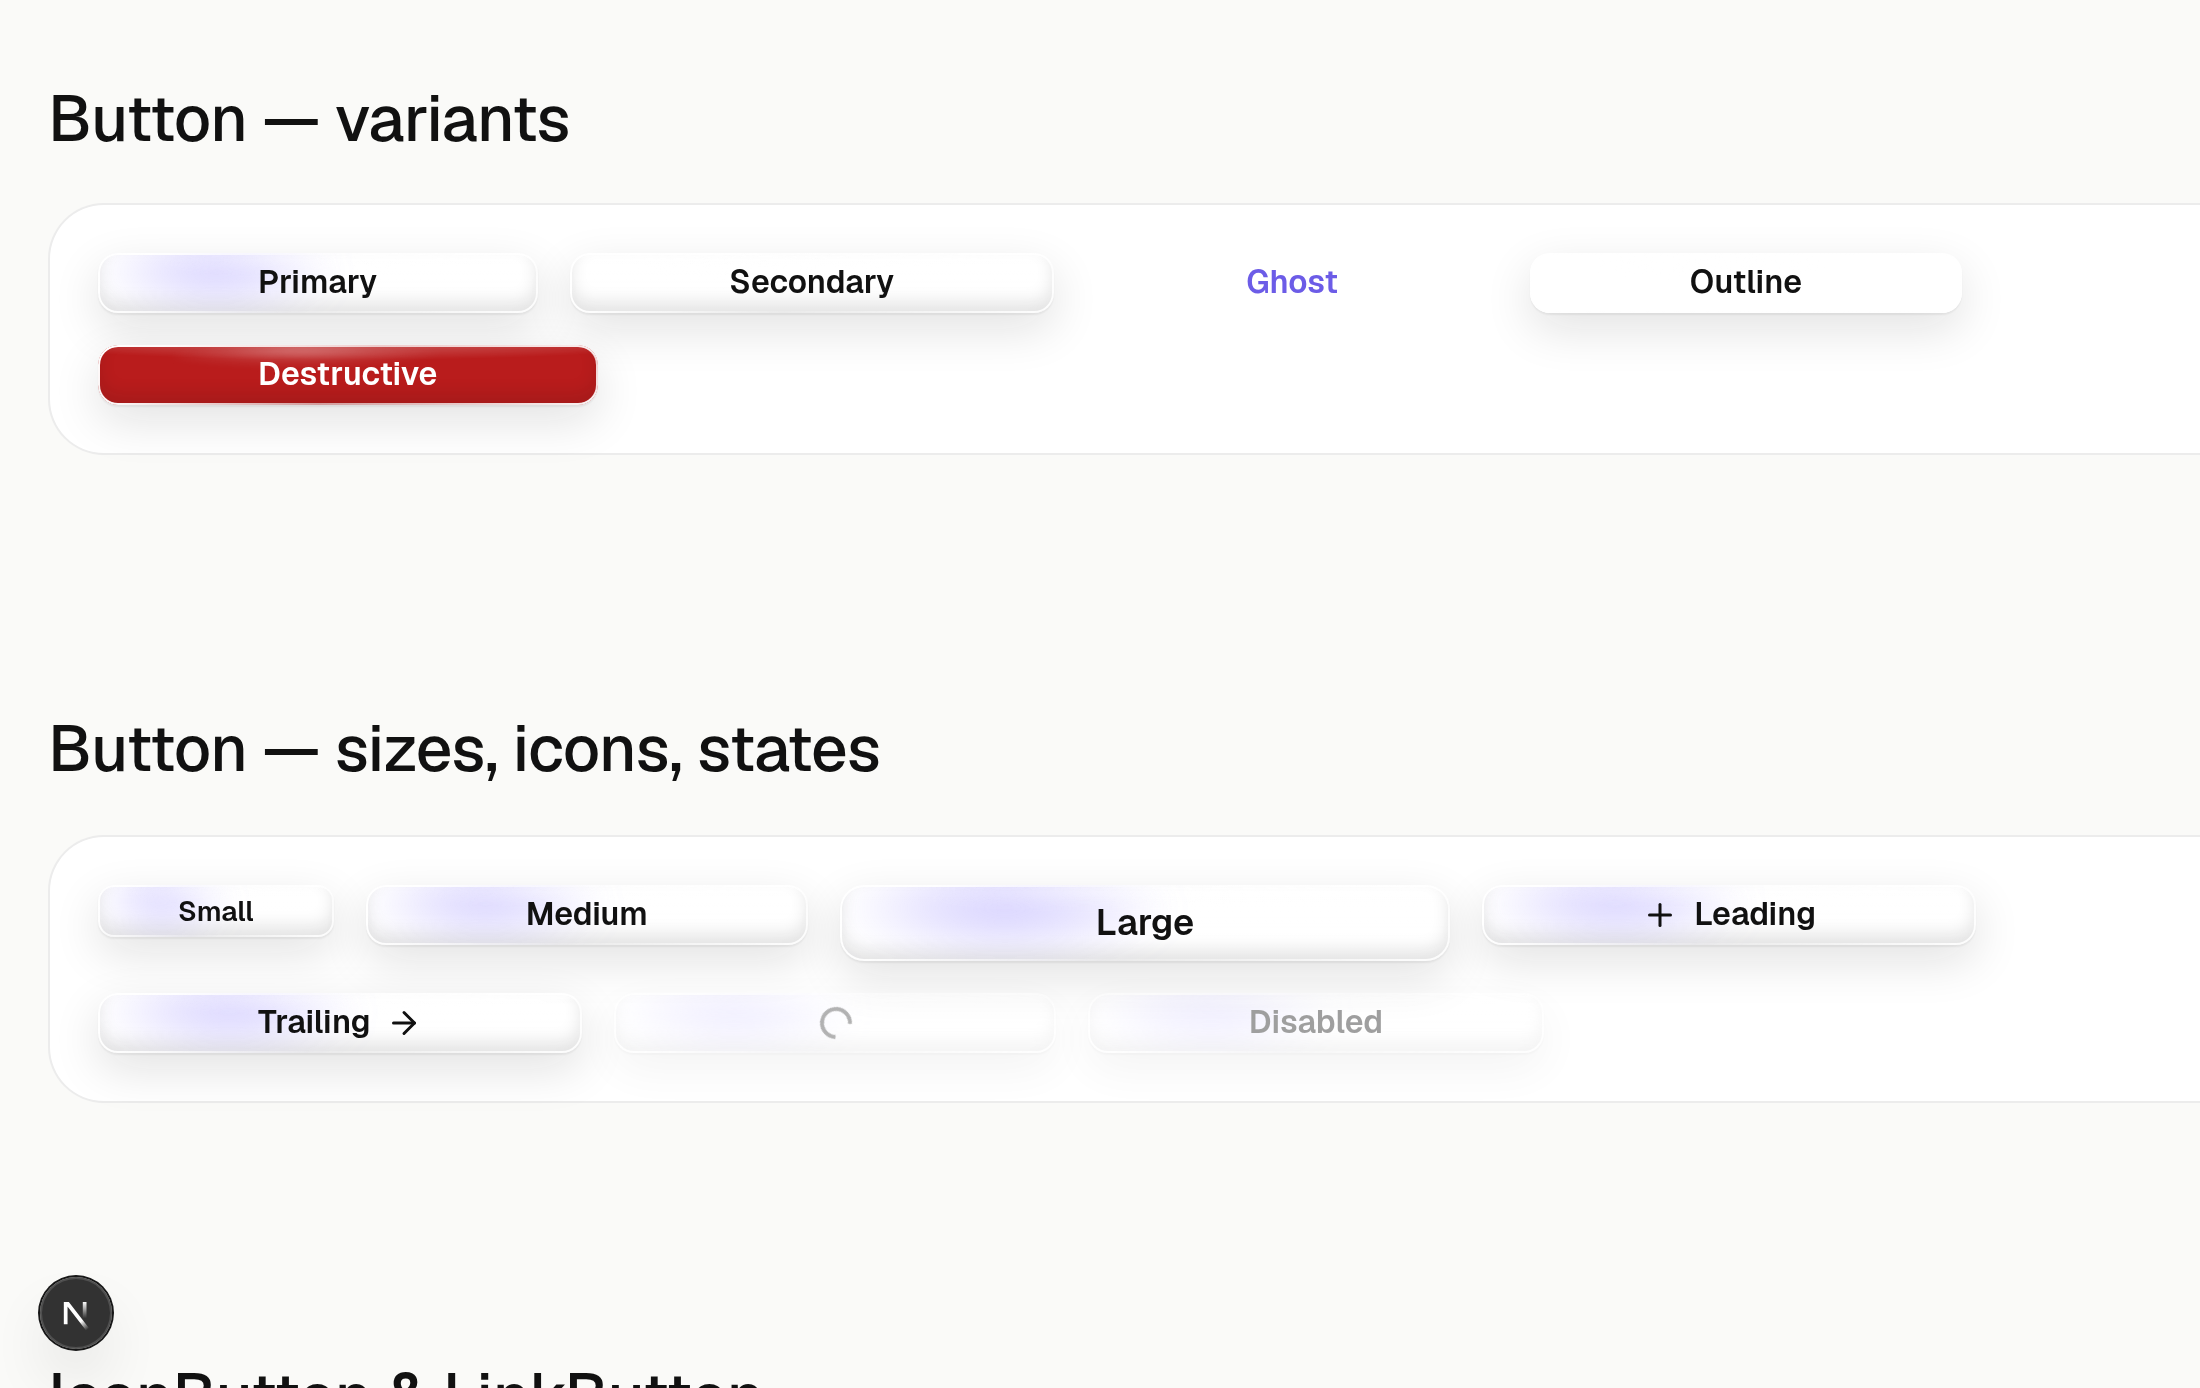
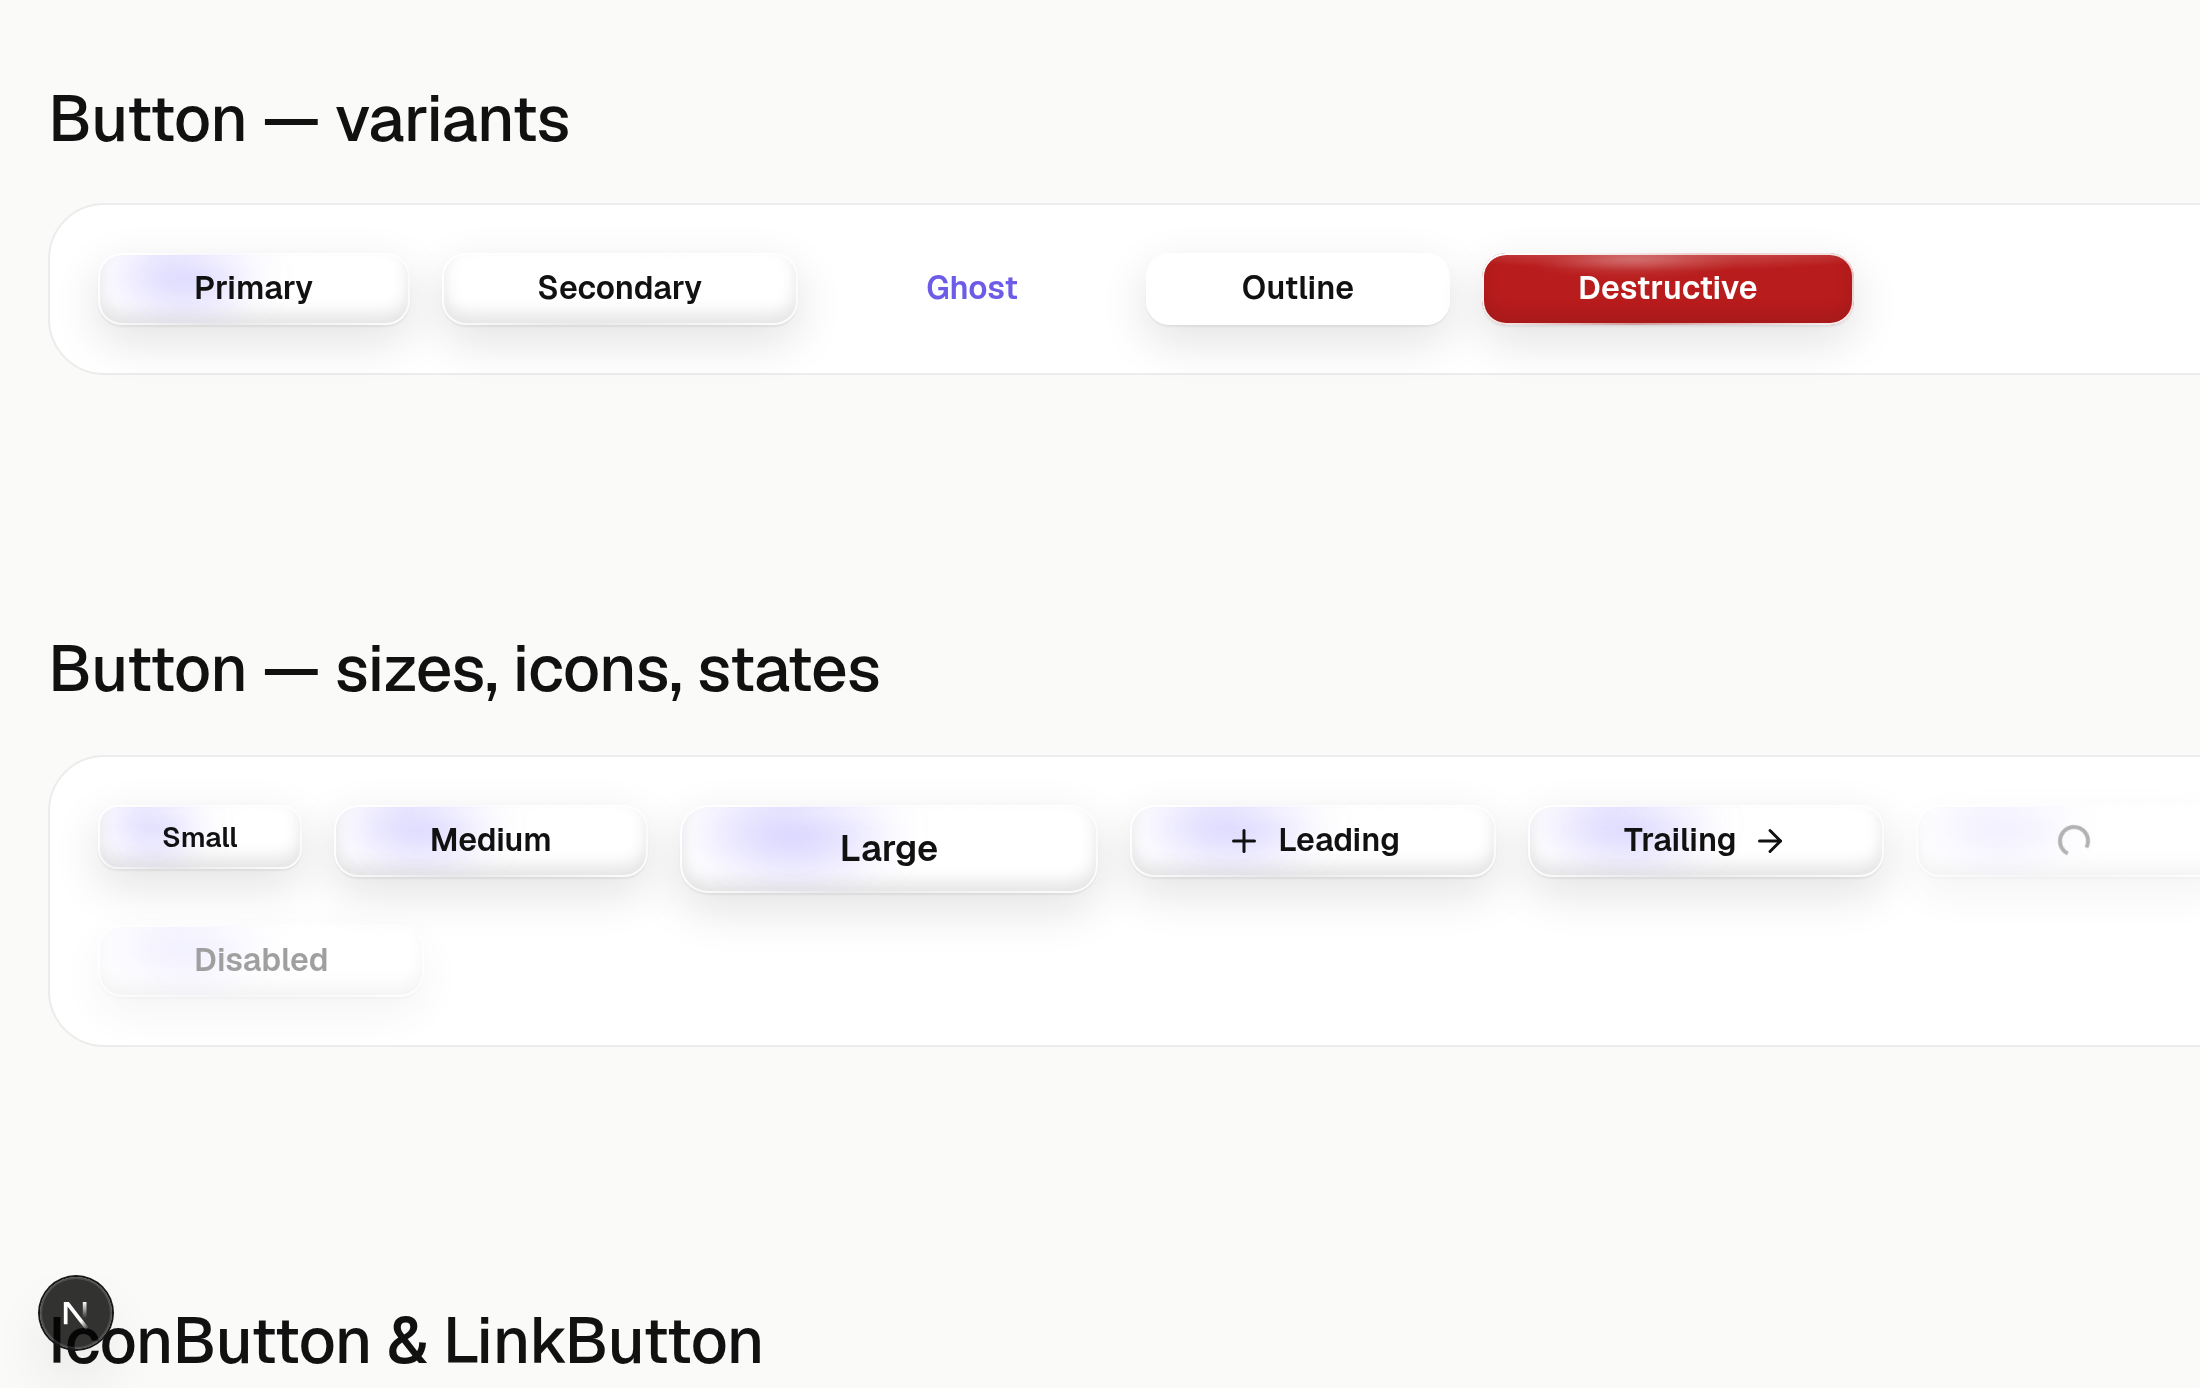
fix(button): recalibrate Micro geometry — a premium tactile rectangle
Owner recalibration: the elongated blade read as a fragile strip/separator.
Recover vertical mass and slightly shorten so the button reads as a moulded
glass PIECE with its weight centred (Apple/Linear/Stripe). Geometry only:
h-[32/36/44px], px-6/8/10, rounded-[10/12/14px] (~⅓ height, non-semicircle),
balanced ~2.5-3.5:1 ratio. Material, GlassSurface layers, optics, light and
glass.css are untouched. Adds a 100/50/25% zoom montage script.

Claude-Session: https://claude.ai/code/session_01JSKxADquWPscGGWu93W5g6

diff --git a/src/components/ui/button.tsx b/src/components/ui/button.tsx
@@ -30,16 +30,16 @@ export const buttonVariants = cva(
         outline: 'text-text',
         destructive: 'text-text-on-accent',
       },
-      // The single Micro Surface geometry: a THIN, WIDE action button (Apple /
-      // Linear / Stripe / macOS). A low height with generous horizontal padding
-      // gives a taut horizontal silhouette ~3.5–4× wider than tall; corners are
-      // ~30–35% of the height (never semicircular — not a pill). It must read as
-      // a thin machined sliver of glass laid on the surface, never a cushion.
-      // Material/optics are unchanged.
+      // The single Micro Surface geometry: a premium, tactile action button
+      // (Apple / Linear / Stripe). Enough vertical mass to read as a moulded
+      // glass PIECE (never a thin strip), a balanced ~2.5–3.5:1 ratio so the
+      // visual weight sits in the centre (stable, not stretched), and corners
+      // generously rounded at ~⅓ of the height — clearly a softened rectangle,
+      // never a semicircle / pill / capsule. Material/optics are unchanged.
       size: {
-        sm: 'h-[26px] px-7 text-body-sm rounded-[8px]',
-        md: 'h-[30px] px-10 text-body rounded-[10px]',
-        lg: 'h-[38px] px-12 text-body-lg rounded-[12px]',
+        sm: 'h-[32px] px-6 text-body-sm rounded-[10px]',
+        md: 'h-[36px] px-8 text-body rounded-[12px]',
+        lg: 'h-[44px] px-10 text-body-lg rounded-[14px]',
       },
     },
     defaultVariants: { variant: 'primary', size: 'md' },
